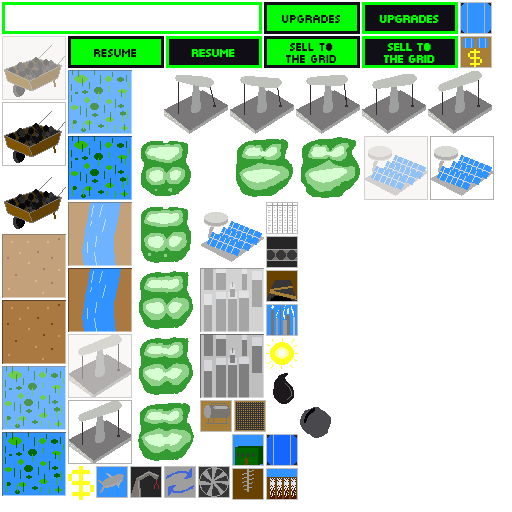
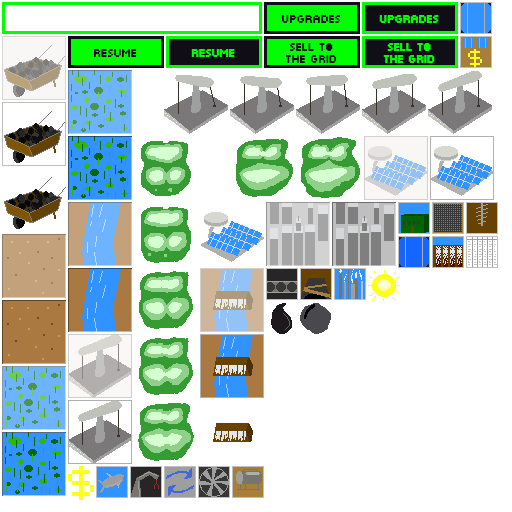
added code for hooking up hydro creation

Changed region(s): [[0.375, 0.375, 1.0, 1.0]]

diff --git a/src/systems/tile_selection.rs b/src/systems/tile_selection.rs
@@ -18,6 +18,27 @@ impl TileSelection {
             build_ui_entity: None,
         }
     }
+
+    fn remove_build_ui_entity(&mut self, entities: &Entities) {
+        if let Some(build_ui_entity) = self.build_ui_entity {
+            let mut scene = self.scene.lock().unwrap();
+
+            let mut node_to_delete = -1i32;
+            for (i, node) in scene.sub_nodes.iter().enumerate() {
+                if let Some(entity) = node.entity {
+                    if entity == build_ui_entity {
+                        node_to_delete = i as i32;
+                    }
+                }
+            }
+
+            if node_to_delete > -1i32 {
+                scene.sub_nodes.remove(node_to_delete as usize);
+                entities.delete(build_ui_entity);
+                self.build_ui_entity = None;
+            }
+        }
+    }
 }
 
 impl<'a> System<'a> for TileSelection {
@@ -56,13 +77,16 @@ impl<'a> System<'a> for TileSelection {
         let mut clicked = false;
         let researched_buffs: &ResearchedBuffs = researched_buffs.deref();
 
-        for (_, button, transform) in
+        let mut tile_type_selected = None;
+
+        for (tile, button, transform) in
             (&tile_storage, &mut button_storage, &transform_storage).join()
         {
             if button.clicked(&input) {
                 tile_mouse_x = transform.get_pos().x;
                 tile_mouse_y = transform.get_pos().y;
                 clicked = true;
+                tile_type_selected = Some(tile.tile_type.clone());
             }
         }
 
@@ -82,53 +106,29 @@ impl<'a> System<'a> for TileSelection {
                     transform.set_pos2(tile_mouse_x, tile_mouse_y);
                 }
 
+                // if build UI showing, clean it up, as tile type may be different
+                self.remove_build_ui_entity(&entities);
+                // create build ui
+                let node = create_build_ui::create(
+                    tile_mouse_x + Tile::get_size(),
+                    tile_mouse_y,
+                    &tile_type_selected.unwrap(),
+                    &entities,
+                    &mut button_storage,
+                    &mut color_storage,
+                    &mut rect_storage,
+                    &mut sprite_storage,
+                    &mut transform_storage,
+                    &researched_buffs,
+                );
+                self.build_ui_entity = Some(node.entity.unwrap().clone());
                 let mut scene = self.scene.lock().unwrap();
-
-                // if build UI showing, move its position
-                if let Some(build_ui_entity) = self.build_ui_entity {
-                    let transform = transform_storage.get_mut(build_ui_entity).unwrap();
-                    transform.set_pos2(tile_mouse_x + Tile::get_size(), tile_mouse_y);
-                } else {
-                    // create build ui
-                    let node = create_build_ui::create(
-                        tile_mouse_x + Tile::get_size(),
-                        tile_mouse_y,
-                        &entities,
-                        &mut button_storage,
-                        &mut color_storage,
-                        &mut rect_storage,
-                        &mut sprite_storage,
-                        &mut transform_storage,
-                        &researched_buffs,
-                    );
-                    self.build_ui_entity = Some(node.entity.unwrap().clone());
-                    scene.sub_nodes.push(node);
-                }
+                scene.sub_nodes.push(node);
             }
         } else {
             for (_, transform) in (&selected_tile_storage, &transform_storage).join() {
-                // clean up build UI if selected tile not visible,
-                // may want to add a flag for checking this
-                // could maybe move build_ui_entity into the selected_tile component?
                 if !transform.visible {
-                    if let Some(build_ui_entity) = self.build_ui_entity {
-                        let mut scene = self.scene.lock().unwrap();
-
-                        let mut node_to_delete = -1i32;
-                        for (i, node) in scene.sub_nodes.iter().enumerate() {
-                            if let Some(entity) = node.entity {
-                                if entity == build_ui_entity {
-                                    node_to_delete = i as i32;
-                                }
-                            }
-                        }
-
-                        if node_to_delete > -1i32 {
-                            scene.sub_nodes.remove(node_to_delete as usize);
-                            entities.delete(build_ui_entity);
-                            self.build_ui_entity = None;
-                        }
-                    }
+                    self.remove_build_ui_entity(&entities);
                 }
             }
         }

diff --git a/src/entities/create_build_ui.rs b/src/entities/create_build_ui.rs
@@ -1,11 +1,12 @@
 use specs::{Entities, WriteStorage};
 use scene::Node;
-use components::{Button, Color, Rect, ResearchedBuffs, Sprite, Transform};
+use components::{Button, Color, Rect, ResearchedBuffs, Sprite, TileType, Transform};
 use entities::tech_tree::Buff;
 
 pub fn create(
     x: f32,
     y: f32,
+    selected_tile_type: &TileType,
     entities: &Entities,
     button_storage: &mut WriteStorage<Button>,
     color_storage: &mut WriteStorage<Color>,
@@ -14,31 +15,34 @@ pub fn create(
     transform_storage: &mut WriteStorage<Transform>,
     researched_buffs: &ResearchedBuffs,
 ) -> Node {
-    let coal_entity = entities.create();
-    transform_storage.insert(
-        coal_entity,
-        Transform::visible(0.0, 0.0, 0.0, 32, 32, 0.0, 1.0, 1.0),
-    );
-    button_storage.insert(
-        coal_entity,
-        Button::new(
-            "build_coal".to_string(),
-            [
-                "wheelbarrel_button_1.png".to_string(),
-                "wheelbarrel_button_2.png".to_string(),
-            ],
-        ),
-    );
-    sprite_storage.insert(
-        coal_entity,
-        Sprite {
-            frame_name: "wheelbarrel_button_1.png".to_string(),
-        },
-    );
+    let mut new_entities = Vec::new();
 
-    let mut new_entities = vec![Node::new(Some(coal_entity), None)];
+    if *selected_tile_type == TileType::Open {
+        let coal_entity = entities.create();
+        transform_storage.insert(
+            coal_entity,
+            Transform::visible(0.0, 0.0, 0.0, 32, 32, 0.0, 1.0, 1.0),
+        );
+        button_storage.insert(
+            coal_entity,
+            Button::new(
+                "build_coal".to_string(),
+                [
+                    "wheelbarrel_button_1.png".to_string(),
+                    "wheelbarrel_button_2.png".to_string(),
+                ],
+            ),
+        );
+        sprite_storage.insert(
+            coal_entity,
+            Sprite {
+                frame_name: "wheelbarrel_button_1.png".to_string(),
+            },
+        );
+        new_entities.push(Node::new(Some(coal_entity), None));
+    }
 
-    if researched_buffs.0.contains(&Buff::Oil) {
+    if researched_buffs.0.contains(&Buff::Oil) && *selected_tile_type == TileType::Open {
         let oil_entity = entities.create();
         transform_storage.insert(
             oil_entity,
@@ -64,7 +68,7 @@ pub fn create(
         new_entities.push(Node::new(Some(oil_entity), None));
     }
 
-    if researched_buffs.0.contains(&Buff::Solar) {
+    if researched_buffs.0.contains(&Buff::Solar) && *selected_tile_type == TileType::Open {
         let solar_entity = entities.create();
         transform_storage.insert(
             solar_entity,
@@ -88,6 +92,34 @@ pub fn create(
         );
 
         new_entities.push(Node::new(Some(solar_entity), None));
+    }
+
+    if researched_buffs.0.contains(&Buff::Hydro) && *selected_tile_type == TileType::River {
+        let hydro_entity = entities.create();
+        transform_storage.insert(
+            hydro_entity,
+            Transform::visible(0.0, 96.0, 0.0, 32, 32, 0.0, 1.0, 1.0),
+        );
+
+        button_storage.insert(
+            hydro_entity,
+            Button::new(
+                "build_hydro".to_string(),
+                [
+                    "hydro_button.png".to_string(),
+                    "hydro_button_2.png".to_string(),
+                ]
+            )
+        );
+
+        sprite_storage.insert(
+            hydro_entity,
+            Sprite{
+                frame_name: "hydro_button.png".to_string(),
+            }
+        );
+
+        new_entities.push(Node::new(Some(hydro_entity), None));
     }
 
     let container_entity = entities.create();

diff --git a/src/systems/pollution.rs b/src/systems/pollution.rs
@@ -1,7 +1,6 @@
-use std::ops::{Deref, DerefMut};
-use specs::{Fetch, FetchMut, Join, ReadStorage, System, WriteStorage};
-use components::{Gatherer, GathererType, PollutionCount, ProtectedNodes, Text, Tile, TileType,
-                 Transform, Wallet, ui::WalletUI};
+use std::ops::{DerefMut};
+use specs::{FetchMut, Join, ReadStorage, System, WriteStorage};
+use components::{Gatherer, PollutionCount, Text, Wallet, ui::WalletUI};
 use systems::{logic, FRAME_TIME};
 
 pub struct Pollution {
@@ -18,9 +17,7 @@ impl<'a> System<'a> for Pollution {
     type SystemData = (
         ReadStorage<'a, Gatherer>,
         WriteStorage<'a, PollutionCount>,
-        Fetch<'a, ProtectedNodes>,
         WriteStorage<'a, Text>,
-        ReadStorage<'a, Transform>,
         FetchMut<'a, Wallet>,
         ReadStorage<'a, WalletUI>,
     );
@@ -29,9 +26,7 @@ impl<'a> System<'a> for Pollution {
         let (
             gatherer_storage,
             mut pollution_count_storage,
-            protected_nodes_storage,
             mut text_storage,
-            transform_storage,
             mut wallet_storage,
             wallet_ui_storage,
         ) = data;
@@ -44,8 +39,6 @@ impl<'a> System<'a> for Pollution {
 
         self.ticker = 0.0;
 
-        let protected_nodes = protected_nodes_storage.deref();
-
         let mut pollution = 0;
 
         // can probably cache the pollution production amount on a tile when created
@@ -56,7 +49,7 @@ impl<'a> System<'a> for Pollution {
 
         if pollution > 0 {
             let wallet = wallet_storage.deref_mut();
-            wallet.money -= pollution / 10;
+            wallet.money -= pollution % 100 * 2;
             logic::update_text(
                 format!("{}", wallet.money),
                 &mut text_storage,

diff --git a/src/state/play_state.rs b/src/state/play_state.rs
@@ -224,6 +224,7 @@ impl<'a> State for PlayState<'a> {
                 let tile = Tile::new(tile_type);
                 let sprite_frames = Tile::get_sprite_frames(&tile.tile_type);
                 let frame_one = sprite_frames[0].clone();
+                let tile_type = tile.tile_type.clone();
                 let tile_entity = world
                     .create_entity()
                     .with(Transform::visible(
@@ -238,17 +239,9 @@ impl<'a> State for PlayState<'a> {
                     ))
                     .with(Sprite {
                         frame_name: frame_one.clone(),
-                    });
-
-                let tile_entity = if tile.tile_type == TileType::Open {
-                    tile_entity.with(Button::new(frame_one, sprite_frames))
-                } else {
-                    tile_entity
-                };
-
-                let tile_type = tile.tile_type.clone();
-
-                let tile_entity = tile_entity.with(tile).build();
+                    })
+                    .with(Button::new(frame_one, sprite_frames))
+                    .with(tile).build();
 
                 if tile_type != TileType::Open {
                     set_nodes.insert((col, row), (tile_type, Some(tile_entity.clone())));

diff --git a/src/systems/sell_energy.rs b/src/systems/sell_energy.rs
@@ -46,8 +46,9 @@ impl<'a> System<'a> for SellEnergy {
             let coal_amount = resources.withdraw_all_for_type(ResourceType::Coal) / 4;
             let oil_amount = resources.withdraw_all_for_type(ResourceType::Oil) / 3;
             let solar_amount = resources.withdraw_all_for_type(ResourceType::Solar) / 2;
+            let hydro_amount = resources.withdraw_all_for_type(ResourceType::Hydro) / 2;
             for power_bar in (&mut power_bar_storage).join() {
-                power_bar.add_power((coal_amount + oil_amount + solar_amount) * 100);
+                power_bar.add_power((coal_amount + oil_amount + solar_amount + hydro_amount) * 100);
             }
 
             let wallet: &mut Wallet = wallet_storage.deref_mut();

diff --git a/src/components/resources.rs b/src/components/resources.rs
@@ -62,10 +62,10 @@ impl Resources {
 
     pub fn increase_resource_for_gatherer_type(&mut self, gatherer_type: &GathererType) {
         match *gatherer_type {
-            GathererType::Coal => self.coal += 1,
-            GathererType::Oil => self.oil += 2,
-            GathererType::Solar => self.solar += 4,
-            GathererType::Hydro => self.hydro += 3,
+            GathererType::Coal => self.coal += 5,
+            GathererType::Oil => self.oil += 8,
+            GathererType::Solar => self.solar += 12,
+            GathererType::Hydro => self.hydro += 12,
         }
     }
 

diff --git a/src/systems/build_gatherer.rs b/src/systems/build_gatherer.rs
@@ -97,8 +97,6 @@ impl<'a> System<'a> for BuildGatherer {
             let selected_tile_col = (selected_tile_x / Tile::get_size()) as i32;
             let selected_tile_row = (selected_tile_y / Tile::get_size()) as i32;
 
-            let mut polluting = false;
-
             let gatherer_type = gatherer_type.unwrap();
 
             let mut pollution = 0i32;
